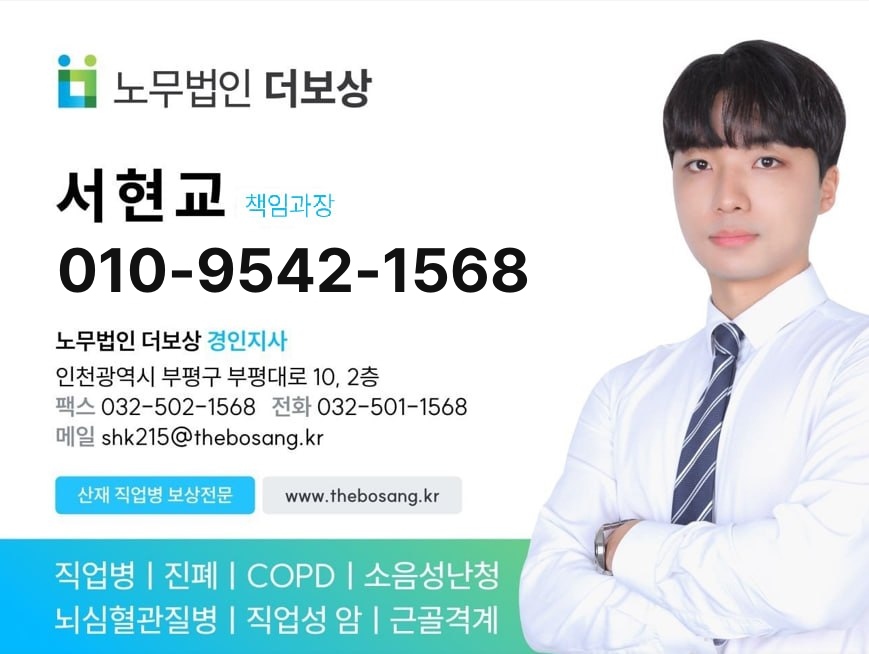
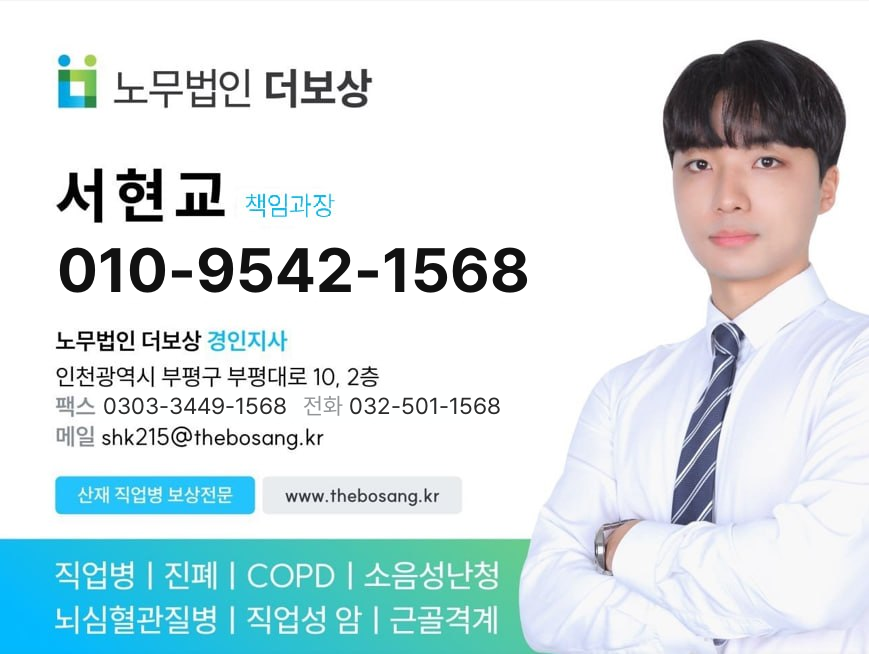
fix: 팩스번호 0303-3449-1568 로 교체 (명함 이미지 포함)

Changed region(s): [[0.0932, 0.581, 0.5903, 0.6422]]

diff --git a/cases.html b/cases.html
@@ -102,7 +102,7 @@
 <footer>
   <div class="wrap">
     <b>노무법인 더보상 경인지사</b> · 서현교 책임과장<br>
-    인천광역시 부평구 부평대로 10, 2층 · 대표전화 032-501-1568 · 팩스 032-502-1568<br>
+    인천광역시 부평구 부평대로 10, 2층 · 대표전화 032-501-1568 · 팩스 0303-3449-1568<br>
     상담전화 <b>010-9542-1568</b> · 메일 shk215@thebosang.kr
     <p class="foot-note">
       본 사건의 수임과 서류 작성은 <b>노무법인 더보상 담당공인노무사</b>가 수행하며,

diff --git a/disease/accident.html b/disease/accident.html
@@ -117,7 +117,7 @@
 <footer>
   <div class="wrap">
     <b>노무법인 더보상 경인지사</b> · 서현교 책임과장<br>
-    인천광역시 부평구 부평대로 10, 2층 · 대표전화 032-501-1568 · 팩스 032-502-1568<br>
+    인천광역시 부평구 부평대로 10, 2층 · 대표전화 032-501-1568 · 팩스 0303-3449-1568<br>
     상담전화 <b>010-9542-1568</b> · 메일 shk215@thebosang.kr
     <p class="foot-note">
       본 사건의 수임과 서류 작성은 <b>노무법인 더보상 담당공인노무사</b>가 수행하며,

diff --git a/disease/cardio.html b/disease/cardio.html
@@ -117,7 +117,7 @@
 <footer>
   <div class="wrap">
     <b>노무법인 더보상 경인지사</b> · 서현교 책임과장<br>
-    인천광역시 부평구 부평대로 10, 2층 · 대표전화 032-501-1568 · 팩스 032-502-1568<br>
+    인천광역시 부평구 부평대로 10, 2층 · 대표전화 032-501-1568 · 팩스 0303-3449-1568<br>
     상담전화 <b>010-9542-1568</b> · 메일 shk215@thebosang.kr
     <p class="foot-note">
       본 사건의 수임과 서류 작성은 <b>노무법인 더보상 담당공인노무사</b>가 수행하며,

diff --git a/disease/hearing-loss.html b/disease/hearing-loss.html
@@ -117,7 +117,7 @@
 <footer>
   <div class="wrap">
     <b>노무법인 더보상 경인지사</b> · 서현교 책임과장<br>
-    인천광역시 부평구 부평대로 10, 2층 · 대표전화 032-501-1568 · 팩스 032-502-1568<br>
+    인천광역시 부평구 부평대로 10, 2층 · 대표전화 032-501-1568 · 팩스 0303-3449-1568<br>
     상담전화 <b>010-9542-1568</b> · 메일 shk215@thebosang.kr
     <p class="foot-note">
       본 사건의 수임과 서류 작성은 <b>노무법인 더보상 담당공인노무사</b>가 수행하며,

diff --git a/disease/mental.html b/disease/mental.html
@@ -117,7 +117,7 @@
 <footer>
   <div class="wrap">
     <b>노무법인 더보상 경인지사</b> · 서현교 책임과장<br>
-    인천광역시 부평구 부평대로 10, 2층 · 대표전화 032-501-1568 · 팩스 032-502-1568<br>
+    인천광역시 부평구 부평대로 10, 2층 · 대표전화 032-501-1568 · 팩스 0303-3449-1568<br>
     상담전화 <b>010-9542-1568</b> · 메일 shk215@thebosang.kr
     <p class="foot-note">
       본 사건의 수임과 서류 작성은 <b>노무법인 더보상 담당공인노무사</b>가 수행하며,

diff --git a/disease/musculoskeletal.html b/disease/musculoskeletal.html
@@ -117,7 +117,7 @@
 <footer>
   <div class="wrap">
     <b>노무법인 더보상 경인지사</b> · 서현교 책임과장<br>
-    인천광역시 부평구 부평대로 10, 2층 · 대표전화 032-501-1568 · 팩스 032-502-1568<br>
+    인천광역시 부평구 부평대로 10, 2층 · 대표전화 032-501-1568 · 팩스 0303-3449-1568<br>
     상담전화 <b>010-9542-1568</b> · 메일 shk215@thebosang.kr
     <p class="foot-note">
       본 사건의 수임과 서류 작성은 <b>노무법인 더보상 담당공인노무사</b>가 수행하며,

diff --git a/disease/occupational-cancer.html b/disease/occupational-cancer.html
@@ -117,7 +117,7 @@
 <footer>
   <div class="wrap">
     <b>노무법인 더보상 경인지사</b> · 서현교 책임과장<br>
-    인천광역시 부평구 부평대로 10, 2층 · 대표전화 032-501-1568 · 팩스 032-502-1568<br>
+    인천광역시 부평구 부평대로 10, 2층 · 대표전화 032-501-1568 · 팩스 0303-3449-1568<br>
     상담전화 <b>010-9542-1568</b> · 메일 shk215@thebosang.kr
     <p class="foot-note">
       본 사건의 수임과 서류 작성은 <b>노무법인 더보상 담당공인노무사</b>가 수행하며,

diff --git a/disease/pneumoconiosis.html b/disease/pneumoconiosis.html
@@ -117,7 +117,7 @@
 <footer>
   <div class="wrap">
     <b>노무법인 더보상 경인지사</b> · 서현교 책임과장<br>
-    인천광역시 부평구 부평대로 10, 2층 · 대표전화 032-501-1568 · 팩스 032-502-1568<br>
+    인천광역시 부평구 부평대로 10, 2층 · 대표전화 032-501-1568 · 팩스 0303-3449-1568<br>
     상담전화 <b>010-9542-1568</b> · 메일 shk215@thebosang.kr
     <p class="foot-note">
       본 사건의 수임과 서류 작성은 <b>노무법인 더보상 담당공인노무사</b>가 수행하며,

diff --git a/index.html b/index.html
@@ -291,7 +291,7 @@
 <footer>
   <div class="wrap">
     <b>노무법인 더보상 경인지사</b> · 서현교 책임과장<br>
-    인천광역시 부평구 부평대로 10, 2층 · 대표전화 032-501-1568 · 팩스 032-502-1568<br>
+    인천광역시 부평구 부평대로 10, 2층 · 대표전화 032-501-1568 · 팩스 0303-3449-1568<br>
     상담전화 <b>010-9542-1568</b> · 메일 shk215@thebosang.kr
     <p class="foot-note">
       본 사건의 수임과 서류 작성은 <b>노무법인 더보상 담당공인노무사</b>가 수행하며,

diff --git a/privacy.html b/privacy.html
@@ -158,7 +158,7 @@
 <footer>
   <div class="wrap">
     <b>노무법인 더보상 경인지사</b> · 서현교 책임과장<br>
-    인천광역시 부평구 부평대로 10, 2층 · 대표전화 032-501-1568 · 팩스 032-502-1568<br>
+    인천광역시 부평구 부평대로 10, 2층 · 대표전화 032-501-1568 · 팩스 0303-3449-1568<br>
     상담전화 <b>010-9542-1568</b> · 메일 shk215@thebosang.kr
     <p class="foot-note">
       본 사건의 수임과 서류 작성은 <b>노무법인 더보상 담당공인노무사</b>가 수행하며,

diff --git a/column/after-rejection.html b/column/after-rejection.html
@@ -74,7 +74,7 @@
 <footer>
   <div class="wrap">
     <b>노무법인 더보상 경인지사</b> · 서현교 책임과장<br>
-    인천광역시 부평구 부평대로 10, 2층 · 대표전화 032-501-1568 · 팩스 032-502-1568<br>
+    인천광역시 부평구 부평대로 10, 2층 · 대표전화 032-501-1568 · 팩스 0303-3449-1568<br>
     상담전화 <b>010-9542-1568</b> · 메일 shk215@thebosang.kr
     <p class="foot-note">
       본 사건의 수임과 서류 작성은 <b>노무법인 더보상 담당공인노무사</b>가 수행하며,

diff --git a/column/after-retirement.html b/column/after-retirement.html
@@ -74,7 +74,7 @@
 <footer>
   <div class="wrap">
     <b>노무법인 더보상 경인지사</b> · 서현교 책임과장<br>
-    인천광역시 부평구 부평대로 10, 2층 · 대표전화 032-501-1568 · 팩스 032-502-1568<br>
+    인천광역시 부평구 부평대로 10, 2층 · 대표전화 032-501-1568 · 팩스 0303-3449-1568<br>
     상담전화 <b>010-9542-1568</b> · 메일 shk215@thebosang.kr
     <p class="foot-note">
       본 사건의 수임과 서류 작성은 <b>노무법인 더보상 담당공인노무사</b>가 수행하며,
